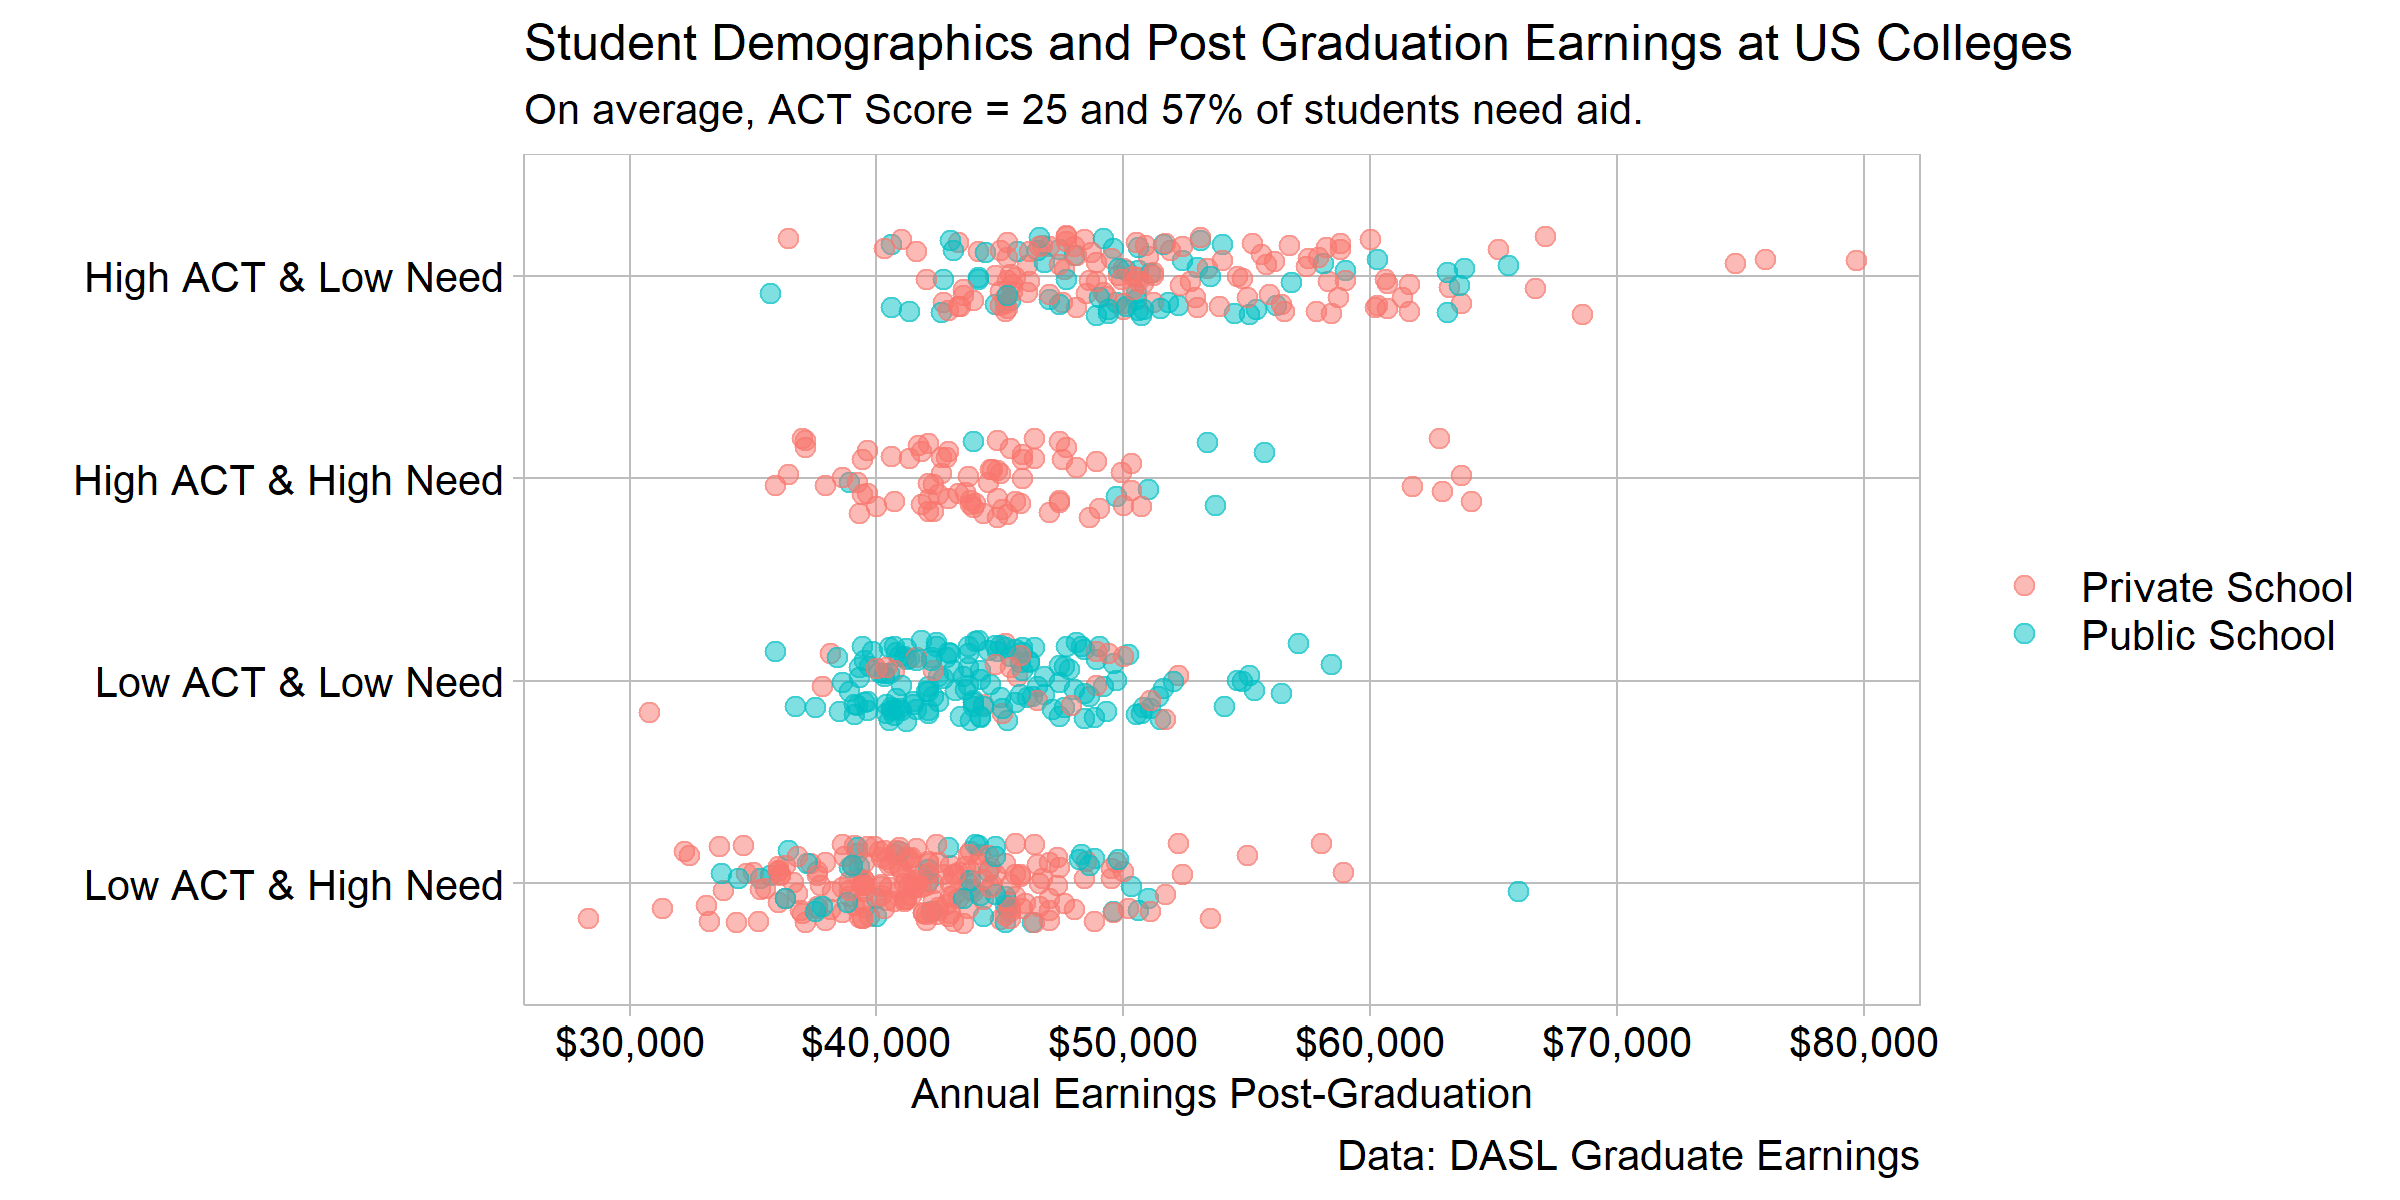
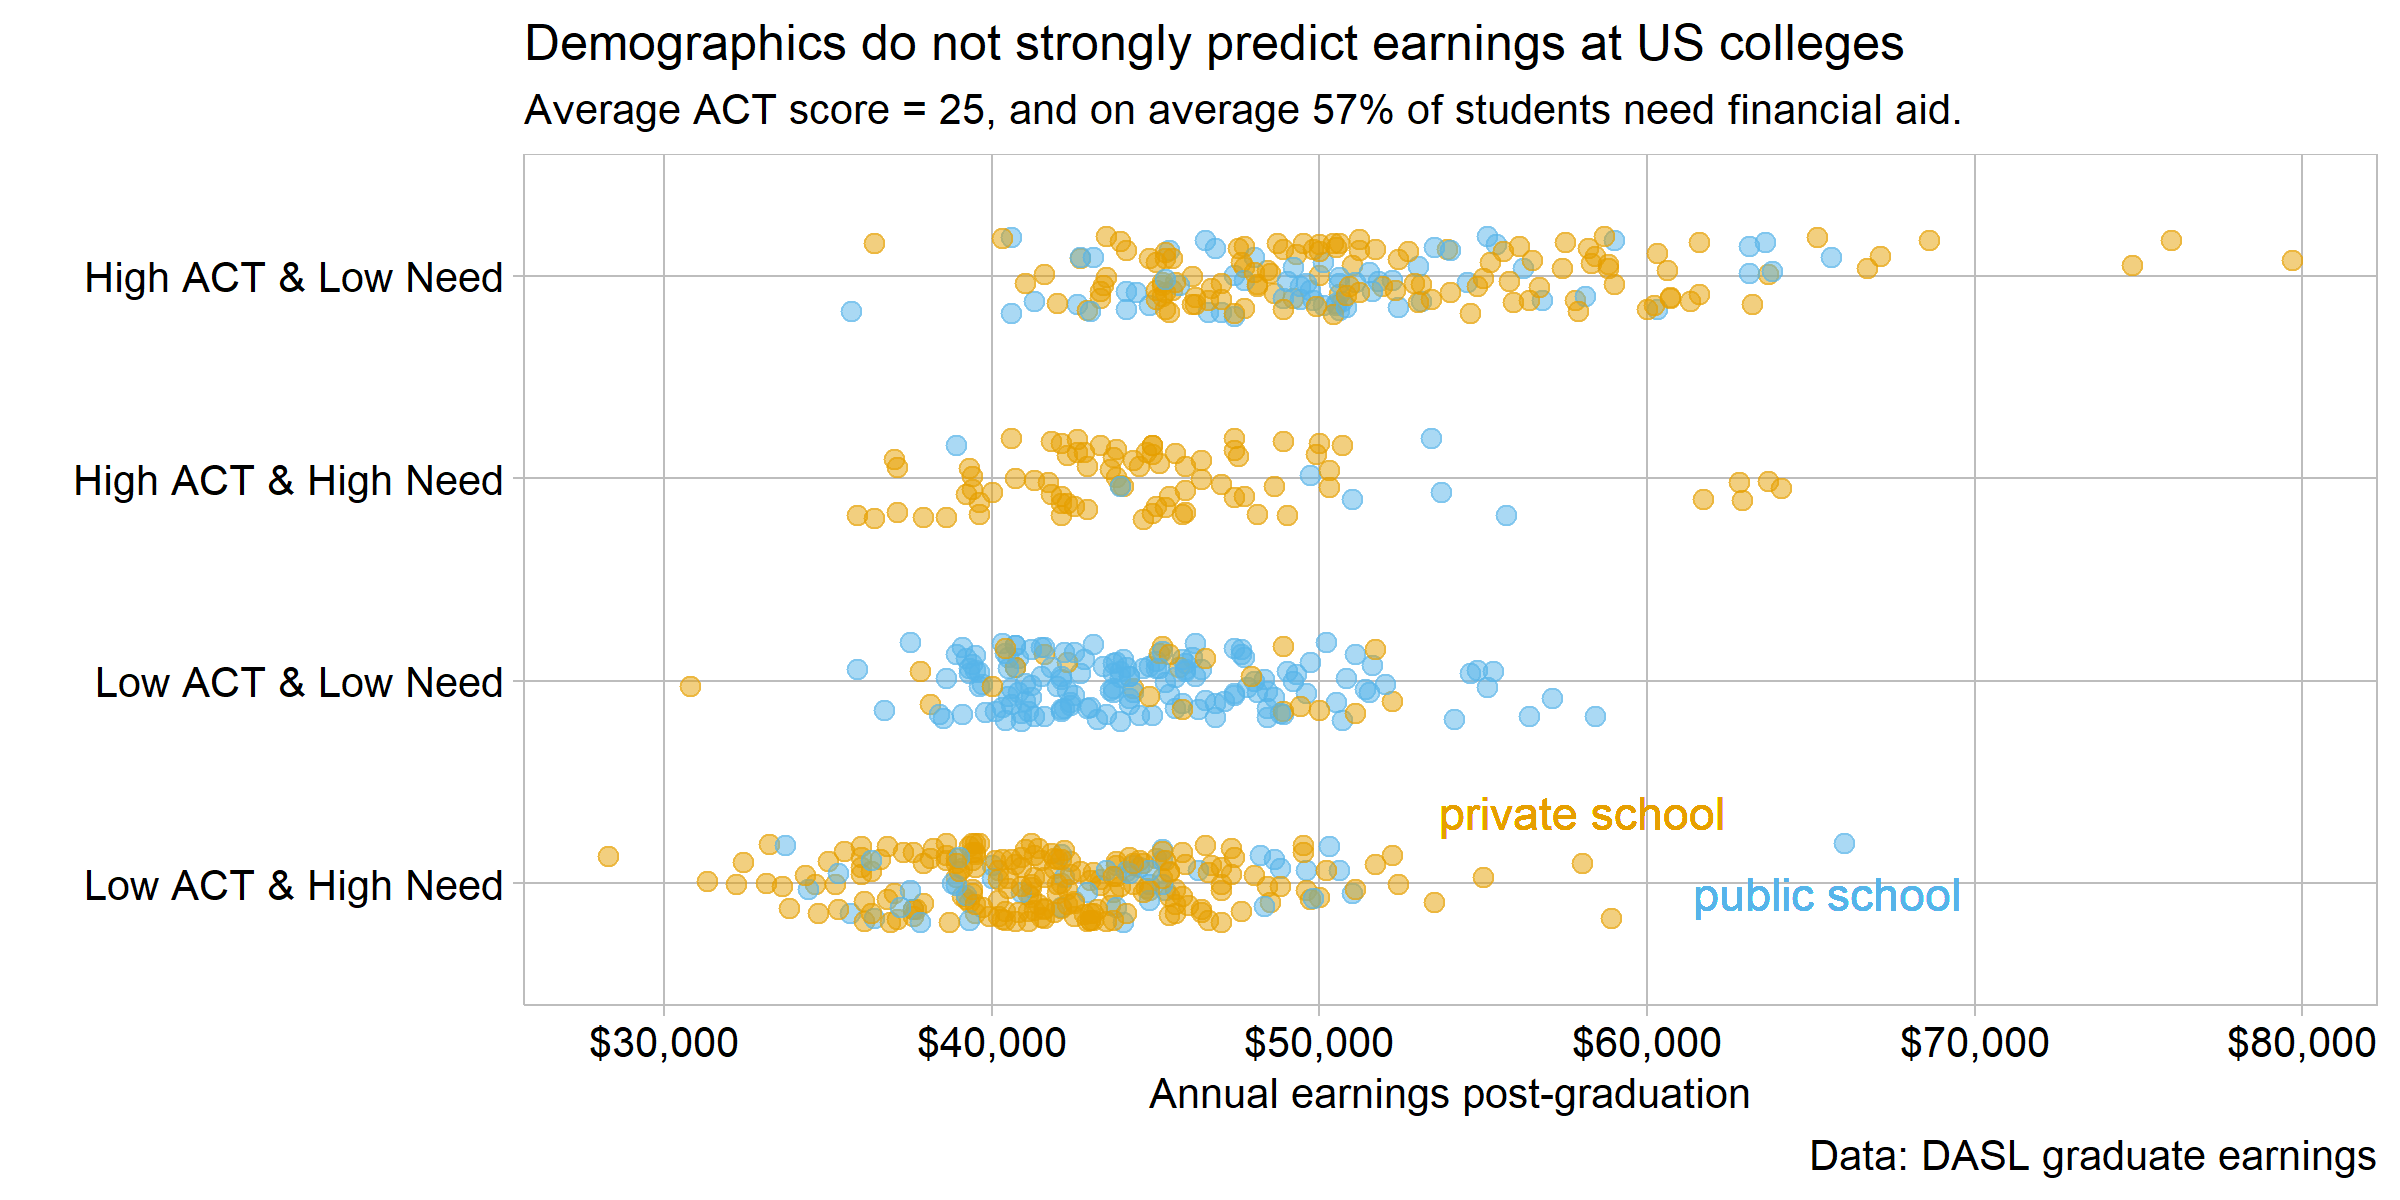
Edited D1 essay and graphic. D1 is complete for now

diff --git a/reports/D1-report.md b/reports/D1-report.md
@@ -1,60 +1,86 @@
-D1 Strip Plot
+Demographics do not predict earnings at US colleges
 ================
 
-This display meets the requirements for D1 distribution data display:
+# Story
 
-  - Minimum 200 observations of one quantitative variable
-  - One or two categorical variables
-  - Time is excluded as a variable
-  - Two categorical variables, with two levels each for a minimum of
-    four comparisons.
+College earnings are not strongly predicted by the demographics of
+students entering schools.
 
 This dataset is derived from MONEY’s best college rankings. This is an
 annual study done on colleges in the US focusing on identifying schools
 that offer the most value to students and their families, as well as top
-performers in various academic metrics. One important piece of
-background information this dataset is missing is the year the study
-refers to. From browsing MONEY’s recent college ranking lists, I
-determined this dataset is from no later than 2014. Missing this context
-surrounding the data limits the conclusions we can draw -
-i.e. prospective college students should not place stock in analysis
-from this display, and should seek the most recent information. However,
-at the time this data was current, it offered insights into the profile
-of students entering colleges across the US.
+performers in various academic metrics. Each datapoint is one of the 706
+(Minimum of 200 for D1) four-year colleges MONEY studied that year,
+which are colleges in the Unites States meeting a [few
+criteria](https://money.com/how-money-ranks-best-colleges-2019/).
+
+The distribution of earnings by the financial-academic demographic
+categories brings stereotypes to the forefront: the ‘have-it-alls’
+(affluent and smart), or the underpriveleged (lower test scores and
+low-income families). Stereotypes at their core are based in truth, and
+some will see that reinforced in this graphic. The demographic ategories
+are ordered by median salary, and as most would expect, colleges with a
+high median ACT score produce graduates that tend to be high earners.
+However, looking deeper this graphic tells a different story. Earnings
+between each demographic category overlap greatly. In fact, there is
+only an $8,200 difference between the highest and lowest median
+earnings. The demographics that attend a college are not a significant
+factor in determining earnings after college.
 
 <img src="../figures/D1-college.png" width="80%" />
 
-Each datapoint is one of the 706 four-year colleges MONEY studied that
-year, which are colleges in the Unites States meeting a [few
-criteria](https://money.com/how-money-ranks-best-colleges-2019/).
 Earnings is the average salary of graduates five years out. The ACT test
-score is reported as the median for incoming students, which is broken
-up into higher than average and lower than average categories. Financial
-need is reported as the fraction of students which recieve financial
-aid. It only counts aid given for need (not academic merit), but there
-is no distinction made between federal aid and private scholarships. The
-average ACT score is 25, and the average percentage of students needing
-aid is 57%.
+score is the median for incoming students at each college, which is
+broken up into higher than average and lower than average categories.
+Financial need is reported as the fraction of students which recieve
+financial aid, broken into above and below average categories. It only
+counts aid given for need (not academic merit), but there is no
+distinction made between federal aid and private scholarships. The
+values splitting the categories are displayed in the figure subtitle:
+average ACT score is 25, average percentage of students needing aid is
+57%.
+
+One important piece of background information this dataset is missing is
+the year the study refers to. From browsing MONEY’s recent college
+ranking lists, I determined this dataset is from no later than 2014.
+Missing this context surrounding the data limits the conclusions we can
+draw - i.e. prospective college students should not place stock in
+analysis from this display, and should seek the most recent information.
+However, at the time this data was current, it offered insights into the
+profile of students entering colleges across the US.
+
+# Graph design
+
+According to Doumount, a strip plot is effective for comparing data with
+one continuous variable and one or more categorical variables (Doumont,
+[2009](#ref-Doumont:2009)). The collegiate earnings dataset fits this
+criteria, and we are interested in comparing the earnings of each
+demographic making a strip plot appropriate. The resulting graphic shows
+the distribution of the single quantitative variable (earnings) over the
+two categorical variables (ACT score and need amount), with two levels
+each (above and below average). None of the variables are time based, as
+those are best represented with different types of graphs.
 
 Choosing the correct data to include in a report is incredibly important
 because “displays of evidence implicitly but powerfully define the scope
 of the relevant, as presentd data are selected from a larger pool of
-material” (Tufte, [1997](#ref-Tufte:1997)) This subset of data divides
+material” (Tufte, [1997](#ref-Tufte:1997)). This subset of data divides
 each college’s student body into a demographic based on economic status
-and academic performance, a combination not often examined. The relevant
-matter is the distribution of post-graduate earnings by the
-financial-academic demographic categories. This combination brings
-stereotypes to the forefront: the ‘have-it-alls’ (affluent and smart),
-or the underpriveleged youth (poor test scores and low-income).
+and academic performance, a combination not often examined.
 
-Stereotypes are based in truth, and we see that in this graphic.
-Demographics are ordered by median salary, and as most people would
-expect, colleges with a high median ACT score produce graduates that
-tend to be high earners. However, looking deeper this graphic tells a
-different story. Earnings between each demographic category overlap
-greatly. In fact, there is only an $8,200 difference between the highest
-and lowest median earnings. The demographics that attend a college are
-not a significant factor in determining earnings after college.
+The x-axis is formatted with dollar signs and trailing zeros directly on
+the labels, because this is the way people are used to looking at
+currency values. In this form, the numeric value is understood at a
+glance. This format is possible because the axis has few major grid
+lines, so the longer labels do not overlap or impede readability.
+
+The need-performance demographic is constructed by the author, so to
+improve transparency the values that split the categories is included as
+a subtitle. With this additional information, a student identify the
+potential earnings range for a college that accept students with similar
+scores. Including the average values is also an ethical requirement;
+disclosing how categories were created means the author cannot hide
+misleading information.
 
 ## References
 
@@ -65,6 +91,14 @@ source](https://dasl.datadescription.com/datafile/graduate-earnings/)
 data](https://money.com/how-money-ranks-best-colleges-2019/)
 
 <div id="refs" class="references">
+
+<div id="ref-Doumont:2009">
+
+Doumont J-L (2009) Designing the graph. *Trees, maps, and theorems:
+Effective communication for rational minds*. Principiae, Kraainem,
+Belgium, 133–143 <http://www.treesmapsandtheorems.com/>
+
+</div>
 
 <div id="ref-Tufte:1997">
 

diff --git a/README.md b/README.md
@@ -17,8 +17,8 @@ Gabe Severyn - April 2020
 
 [Display 1](reports/D1-report.md) Student Demographics and Post
 Graduation Earnings at US Colleges  
-This strip plot explores the demographics at US colleges and their post
-graduation earnings.
+This strip plot explores the demographics entering US colleges and their
+earnings.
 
 ## Discussion notes
 
